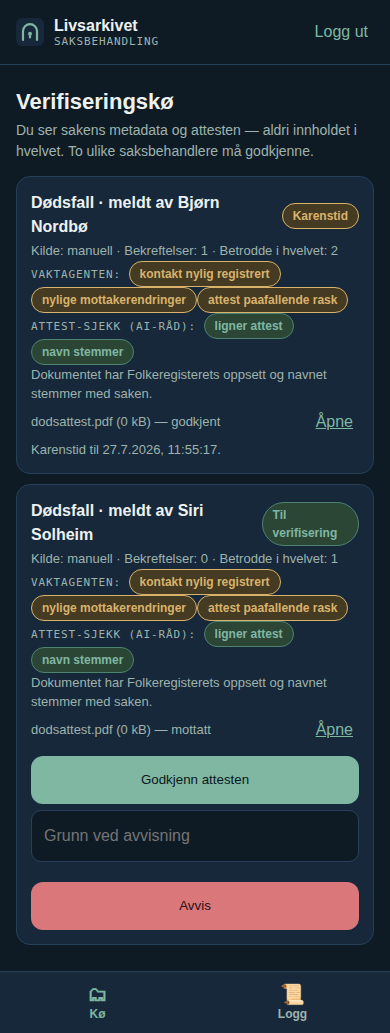
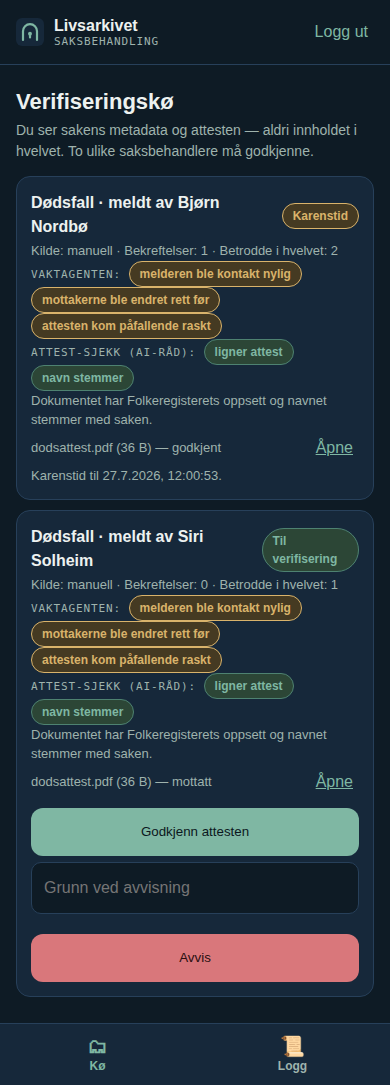
Rett norsk i saksbehandlerkøen: lesbare vaktflagg og filstørrelse
Køen viste agentens flaggkoder rått («attest paafallende rask» — uten å), og
små attester som «0 kB». Flaggene har nå lesbare bokmålsetiketter i
grensesnittet mens kodene i basen forblir ASCII-trygge, og filstørrelse vises
i B/kB/MB etter hva som er naturlig. Skjermbildene er tatt på nytt.

Claude-Session: https://claude.ai/code/session_01C3DfPiduFdmuK7cNta481y

diff --git a/livsarkivet/app/js/moduler/admin.js b/livsarkivet/app/js/moduler/admin.js
@@ -1,6 +1,6 @@
 // Saksbehandling: verifiseringskø med fire-øyne-godkjenning, og revisjonslogg.
 import { kall } from '../api.js';
-import { el, tom, feilboks, STATUS_NAVN } from '../dom.js';
+import { el, tom, feilboks, STATUS_NAVN, VAKT_FLAGG_NAVN, filstorrelse } from '../dom.js';
 
 export async function visKoe(rot) {
   tom(rot);
@@ -34,7 +34,8 @@ export async function visKoe(rot) {
         kort.append(el('div', {},
           el('span', { class: 'mono' }, 'Vaktagenten: '),
           v.vurdering.flagg?.length
-            ? v.vurdering.flagg.map((f) => el('span', { class: 'merkelapp varsel' }, f.replaceAll('_', ' ')))
+            ? v.vurdering.flagg.map((f) => el('span', { class: 'merkelapp varsel' },
+              VAKT_FLAGG_NAVN[f] || f.replaceAll('_', ' ')))
             : el('span', { class: 'merkelapp aktiv' }, 'ingen anomalier')));
       } else if (v.agent === 'frigivelse') {
         const d = v.vurdering;
@@ -54,7 +55,7 @@ export async function visKoe(rot) {
 
     for (const a of sak.attester) {
       kort.append(el('div', { class: 'rad' },
-        el('span', { class: 'meta' }, `${a.filnavn} (${Math.round(a.storrelse / 1024)} kB) — ${a.status}`),
+        el('span', { class: 'meta' }, `${a.filnavn} (${filstorrelse(a.storrelse)}) — ${a.status}`),
         el('a', { href: `/api/admin/attester/${a.id}/fil`, target: '_blank', class: 'lenkeknapp' }, 'Åpne')));
     }
 

diff --git a/livsarkivet/app/js/dom.js b/livsarkivet/app/js/dom.js
@@ -25,6 +25,22 @@ export const KATEGORI_NAVN = {
   praktisk: 'Praktisk', helsedirektiv: 'Helsedirektiv', siste_hilsen: 'Siste hilsen',
 };
 
+// Vaktagentens flagg i lesbar bokmål (kodene i basen er ASCII-trygge)
+export const VAKT_FLAGG_NAVN = {
+  kontakt_nylig_registrert: 'melderen ble kontakt nylig',
+  nylige_mottakerendringer: 'mottakerne ble endret rett før',
+  tidligere_stoppede_saker: 'tidligere stoppede saker',
+  attest_paafallende_rask: 'attesten kom påfallende raskt',
+};
+
+// Filstørrelse: små filer skal ikke vises som «0 kB»
+export function filstorrelse(byte) {
+  const n = Number(byte) || 0;
+  if (n < 1024) return `${n} B`;
+  if (n < 1024 * 1024) return `${Math.round(n / 1024)} kB`;
+  return `${(n / (1024 * 1024)).toFixed(1)} MB`;
+}
+
 export const STATUS_NAVN = {
   meldt: 'Meldt', attest_lastet_opp: 'Attest mottatt', under_verifisering: 'Til verifisering',
   godkjent_1: 'Én godkjenning', karenstid: 'Karenstid', frigitt: 'Frigitt',
